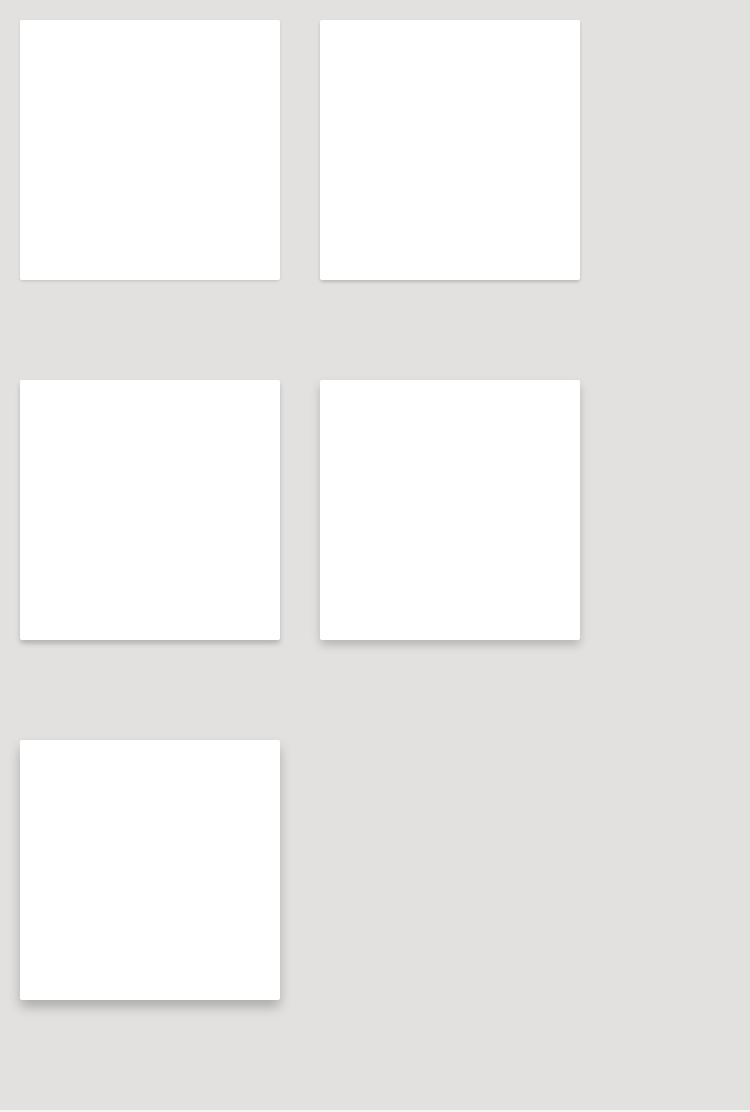
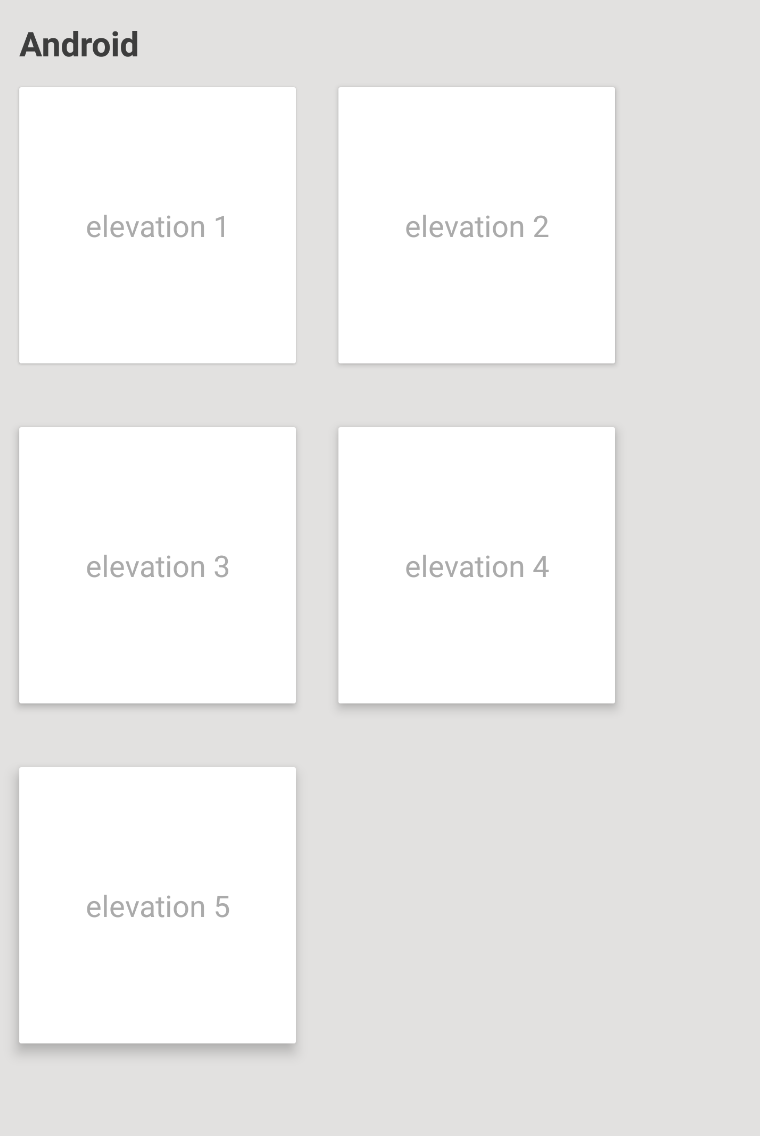
Fix README & slight style tweaks

diff --git a/index.js b/index.js
@@ -12,16 +12,16 @@ export default class ElevatedView extends React.Component {
       case 1:
         iosShadowElevation = {
           shadowOpacity: 0.12,
-          shadowRadius: 0.7,
+          shadowRadius: 0.8,
           shadowOffset: {
-            height: 0.7,
+            height: 0.8,
           },
         };
         break;
       case 2:
         iosShadowElevation = {
           shadowOpacity: 0.18,
-          shadowRadius: 0.8,
+          shadowRadius: 0.9,
           shadowOffset: {
             height: 1,
           },
@@ -29,28 +29,28 @@ export default class ElevatedView extends React.Component {
         break;
       case 3:
         iosShadowElevation = {
-          shadowOpacity: 0.20,
-          shadowRadius: 1.3,
+          shadowOpacity: 0.18,
+          shadowRadius: 1.4,
           shadowOffset: {
-            height: 1.9,
+            height: 2,
           },
         };
         break;
       case 4:
         iosShadowElevation = {
-          shadowOpacity: 0.20,
-          shadowRadius: 2.3,
+          shadowOpacity: 0.18,
+          shadowRadius: 2.5,
           shadowOffset: {
-            height: 2.5,
+            height: 2.8,
           },
         };
         break;
       case 5:
         iosShadowElevation = {
           shadowOpacity: 0.24,
-          shadowRadius: 3,
+          shadowRadius: 3.2,
           shadowOffset: {
-            height: 3.5,
+            height: 4,
           },
         };
         break;

diff --git a/README.md b/README.md
@@ -24,7 +24,7 @@ import React from 'react';
 import { View, StyleSheet } from 'react-native';
 import ElevatedView from 'react-native-elevated-view'
 
-class App extends React.Component {'
+class App extends React.Component {
   render() {
     return (
       <View style={styles.container}>
